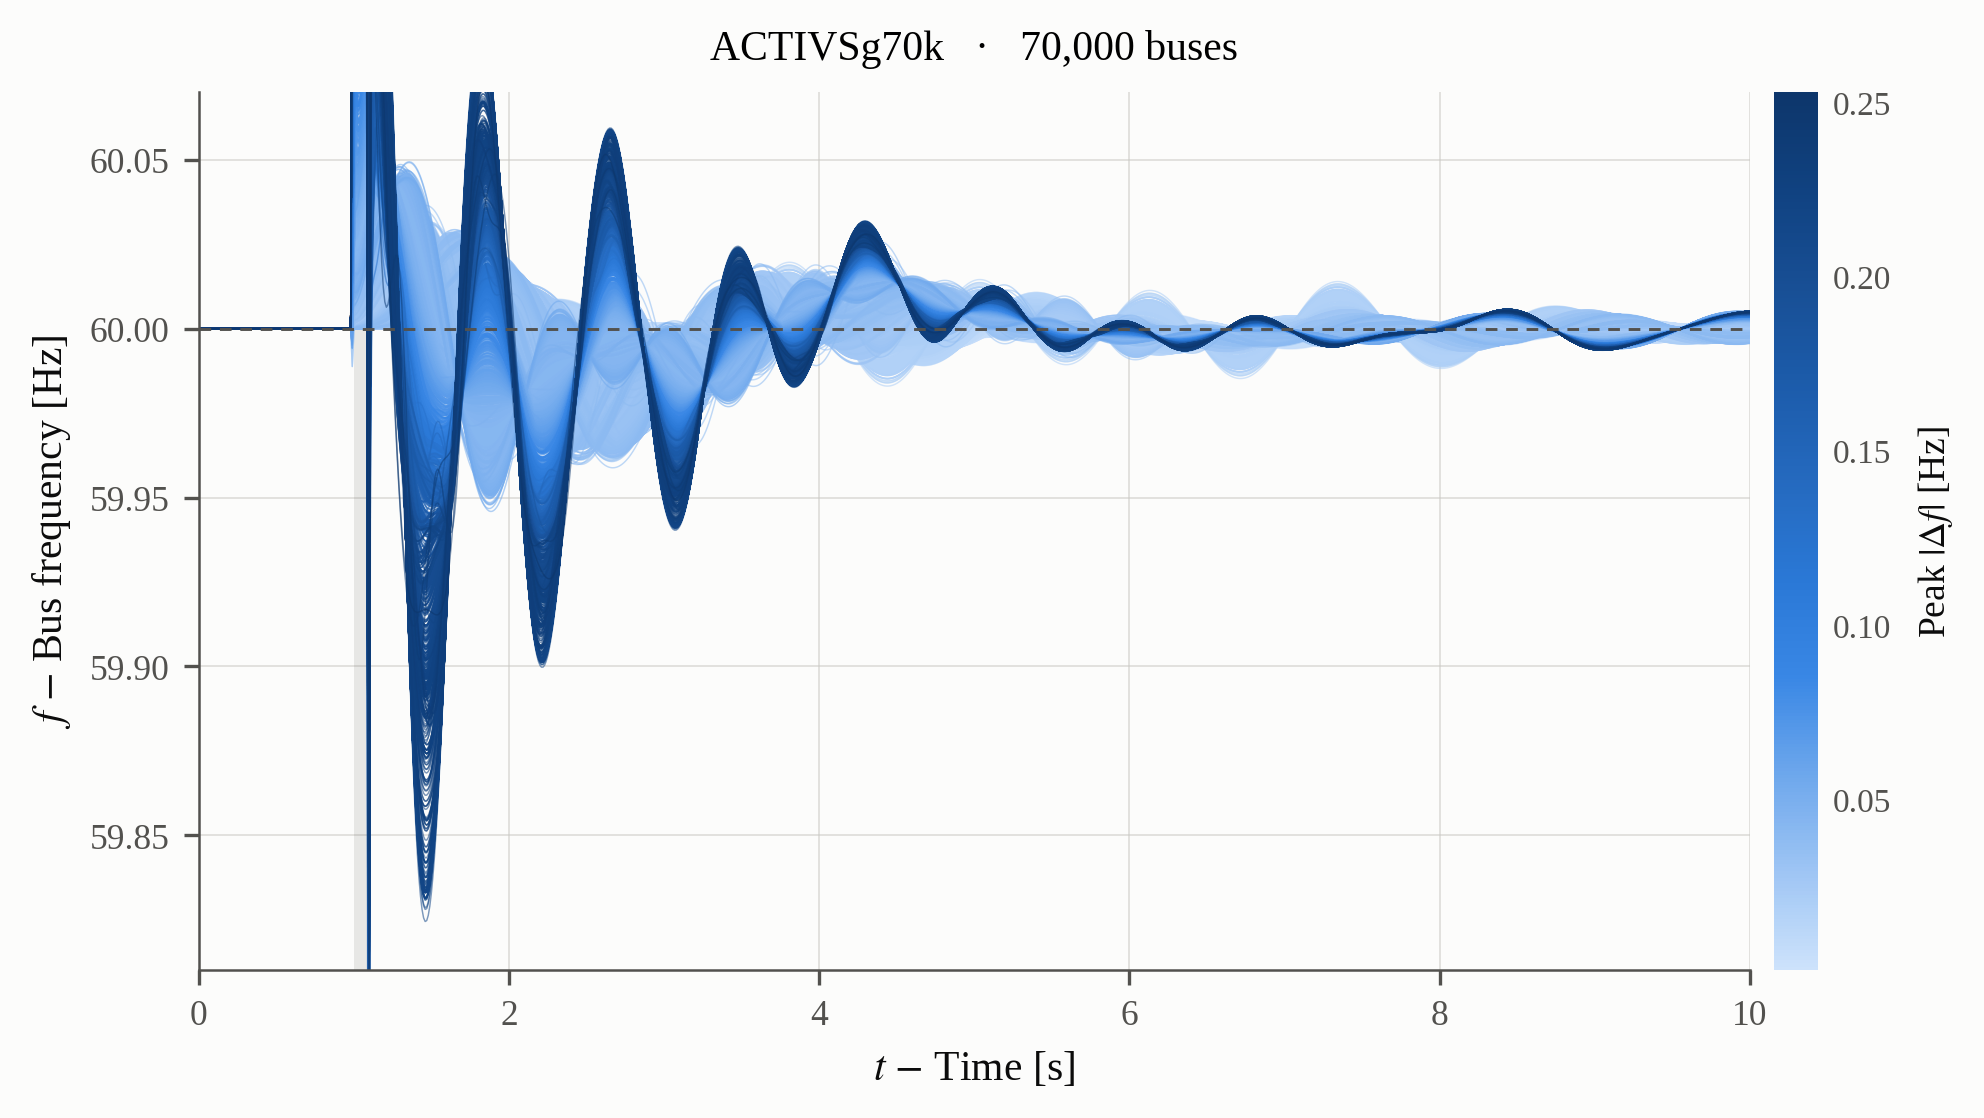
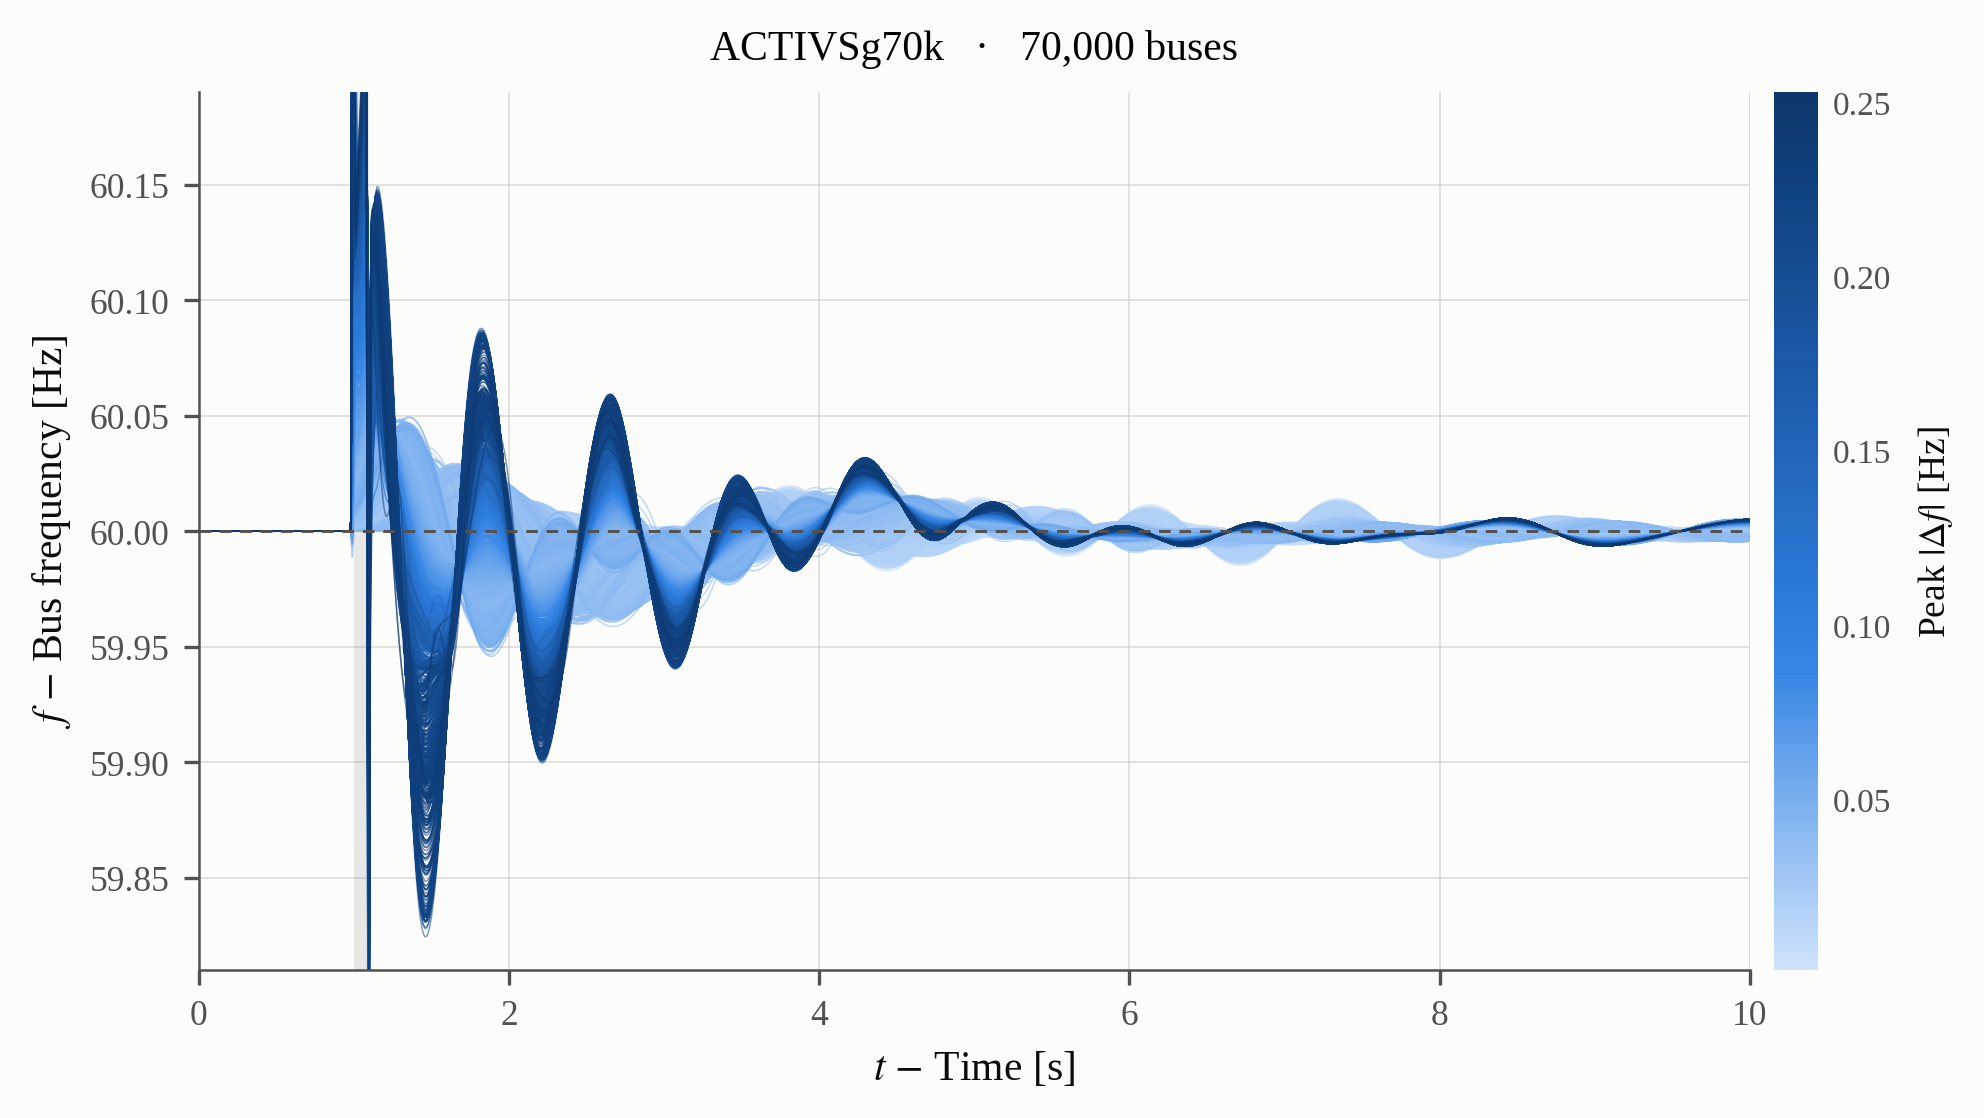
LoadZ optimize

diff --git a/GridKit/Model/PhasorDynamics/Load/LoadZIP/LoadZIPEnzyme.cpp b/GridKit/Model/PhasorDynamics/Load/LoadZIP/LoadZIPEnzyme.cpp
@@ -28,21 +28,6 @@ namespace GridKit
 
       if (bus_->size() > IdxT{0})
       {
-        const RealT Vr    = this->Vr();
-        const RealT Vi    = this->Vi();
-        const RealT Vnom2 = Vnom_ * Vnom_;
-        const RealT V2    = Vr * Vr + Vi * Vi;
-        const RealT V     = std::sqrt(V2);
-        const RealT zip   = alphaZ_ + alphaI_ * Vnom_ / V + alphaP_ * Vnom2 / V2;
-
-        const RealT dz_dV2 = -RealT{0.5} * alphaI_ * Vnom_ / (V2 * V)
-                             - alphaP_ * Vnom2 / (V2 * V2);
-        const RealT dz_dVr = RealT{2.0} * Vr * dz_dV2;
-        const RealT dz_dVi = RealT{2.0} * Vi * dz_dV2;
-
-        const RealT real_current = G_ * Vr + B_ * Vi;
-        const RealT imag_current = G_ * Vi - B_ * Vr;
-
         J_rows_buffer_[0] = bus_->getResidualIndex(0);
         J_rows_buffer_[1] = bus_->getResidualIndex(0);
         J_rows_buffer_[2] = bus_->getResidualIndex(1);
@@ -53,10 +38,35 @@ namespace GridKit
         J_cols_buffer_[2] = bus_->getVariableIndex(0);
         J_cols_buffer_[3] = bus_->getVariableIndex(1);
 
-        J_vals_buffer_[0] = -(G_ * zip + real_current * dz_dVr);
-        J_vals_buffer_[1] = -(B_ * zip + real_current * dz_dVi);
-        J_vals_buffer_[2] = B_ * zip - imag_current * dz_dVr;
-        J_vals_buffer_[3] = -(G_ * zip + imag_current * dz_dVi);
+        if (alphaI_ == ZERO<RealT> && alphaP_ == ZERO<RealT>)
+        {
+          J_vals_buffer_[0] = -G_;
+          J_vals_buffer_[1] = -B_;
+          J_vals_buffer_[2] = B_;
+          J_vals_buffer_[3] = -G_;
+        }
+        else
+        {
+          const RealT Vr    = this->Vr();
+          const RealT Vi    = this->Vi();
+          const RealT Vnom2 = Vnom_ * Vnom_;
+          const RealT V2    = Vr * Vr + Vi * Vi;
+          const RealT V     = std::sqrt(V2);
+          const RealT zip   = alphaZ_ + alphaI_ * Vnom_ / V + alphaP_ * Vnom2 / V2;
+
+          const RealT dz_dV2 = -RealT{0.5} * alphaI_ * Vnom_ / (V2 * V)
+                               - alphaP_ * Vnom2 / (V2 * V2);
+          const RealT dz_dVr = RealT{2.0} * Vr * dz_dV2;
+          const RealT dz_dVi = RealT{2.0} * Vi * dz_dV2;
+
+          const RealT real_current = G_ * Vr + B_ * Vi;
+          const RealT imag_current = G_ * Vi - B_ * Vr;
+
+          J_vals_buffer_[0] = -(G_ * zip + real_current * dz_dVr);
+          J_vals_buffer_[1] = -(B_ * zip + real_current * dz_dVi);
+          J_vals_buffer_[2] = B_ * zip - imag_current * dz_dVr;
+          J_vals_buffer_[3] = -(G_ * zip + imag_current * dz_dVi);
+        }
 
         nnz_ = 4;
       }

diff --git a/GridKit/Model/PhasorDynamics/Load/LoadZIP/LoadZIPImpl.hpp b/GridKit/Model/PhasorDynamics/Load/LoadZIP/LoadZIPImpl.hpp
@@ -167,8 +167,16 @@ namespace GridKit
     template <typename scalar_type, typename index_type>
     int LoadZIP<scalar_type, index_type>::evaluateResidual()
     {
-      const ScalarT Vr    = this->Vr();
-      const ScalarT Vi    = this->Vi();
+      const ScalarT Vr = this->Vr();
+      const ScalarT Vi = this->Vi();
+
+      if (alphaI_ == ZERO<RealT> && alphaP_ == ZERO<RealT>)
+      {
+        Ir() -= G_ * Vr + B_ * Vi;
+        Ii() -= G_ * Vi - B_ * Vr;
+        return 0;
+      }
+
       const RealT   Vnom2 = Vnom_ * Vnom_;
       const ScalarT V2    = Vr * Vr + Vi * Vi;
       const ScalarT V     = std::sqrt(V2);
